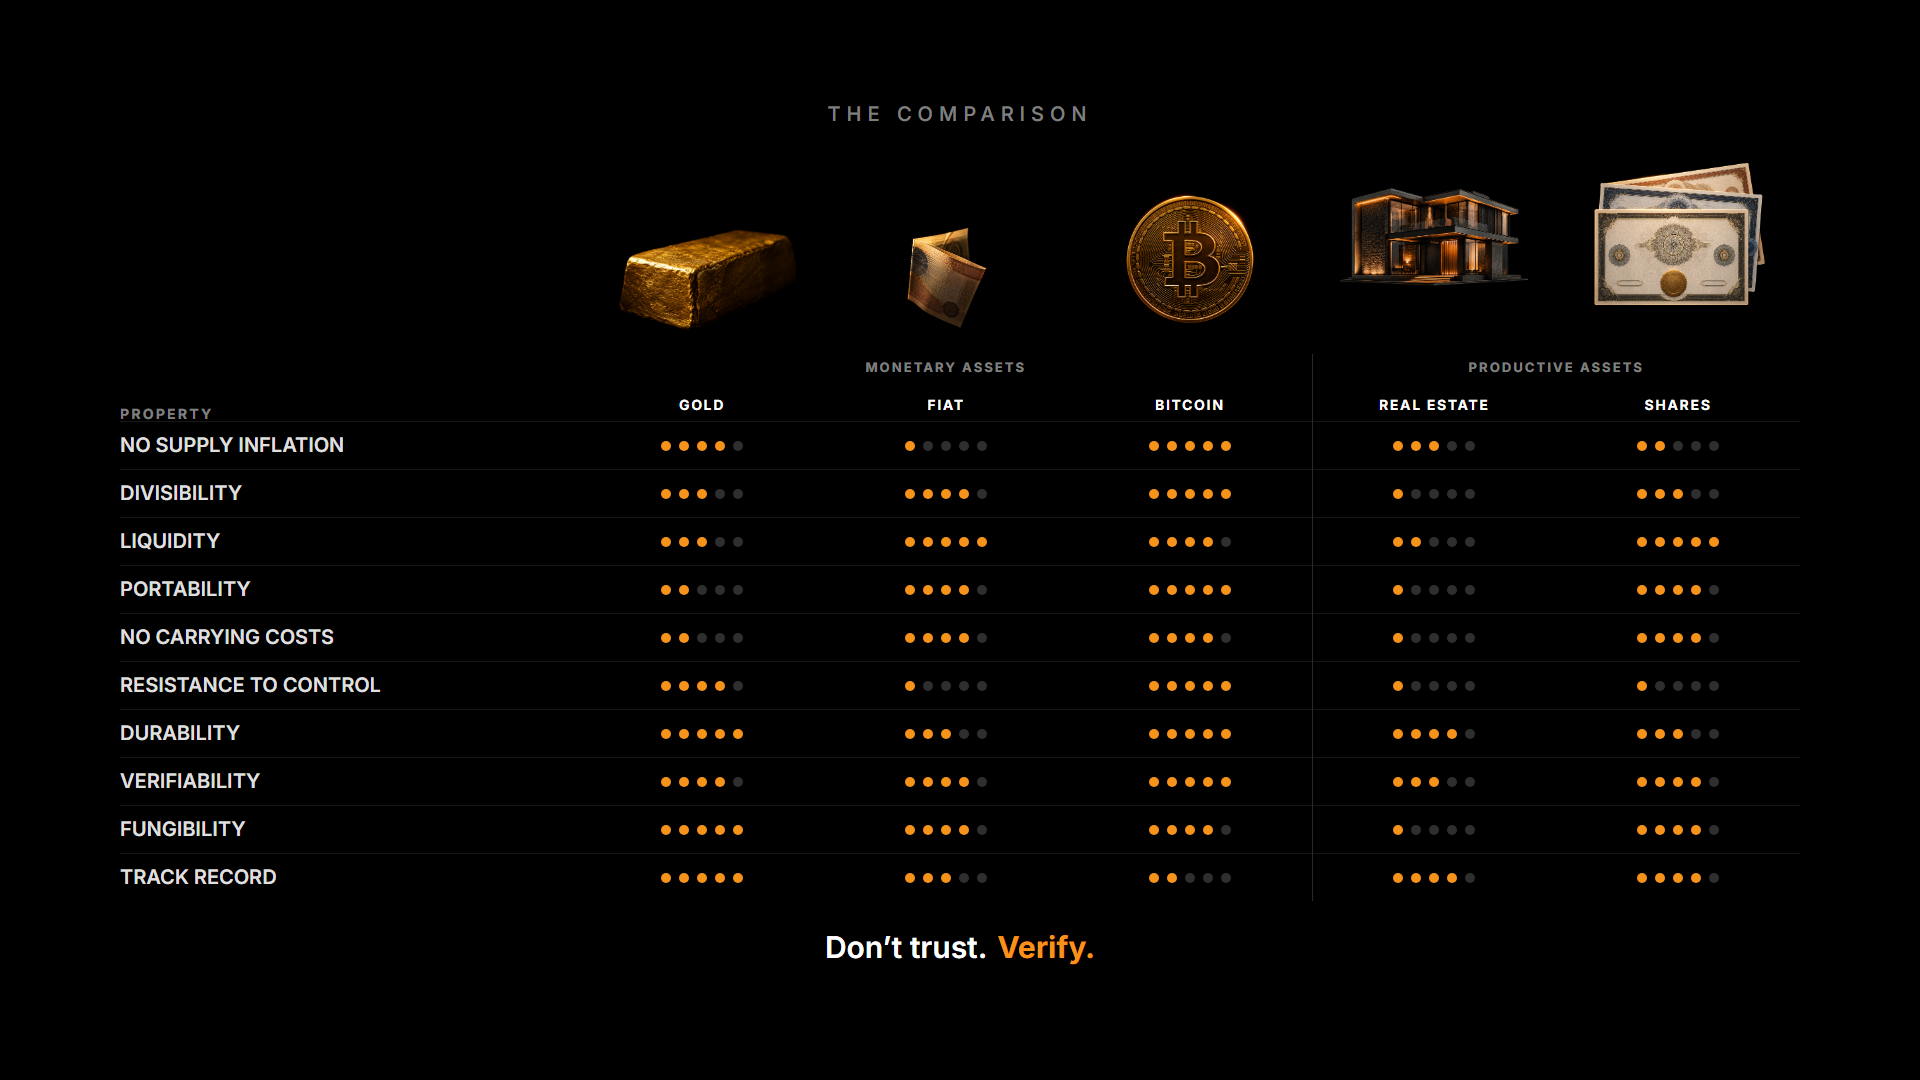
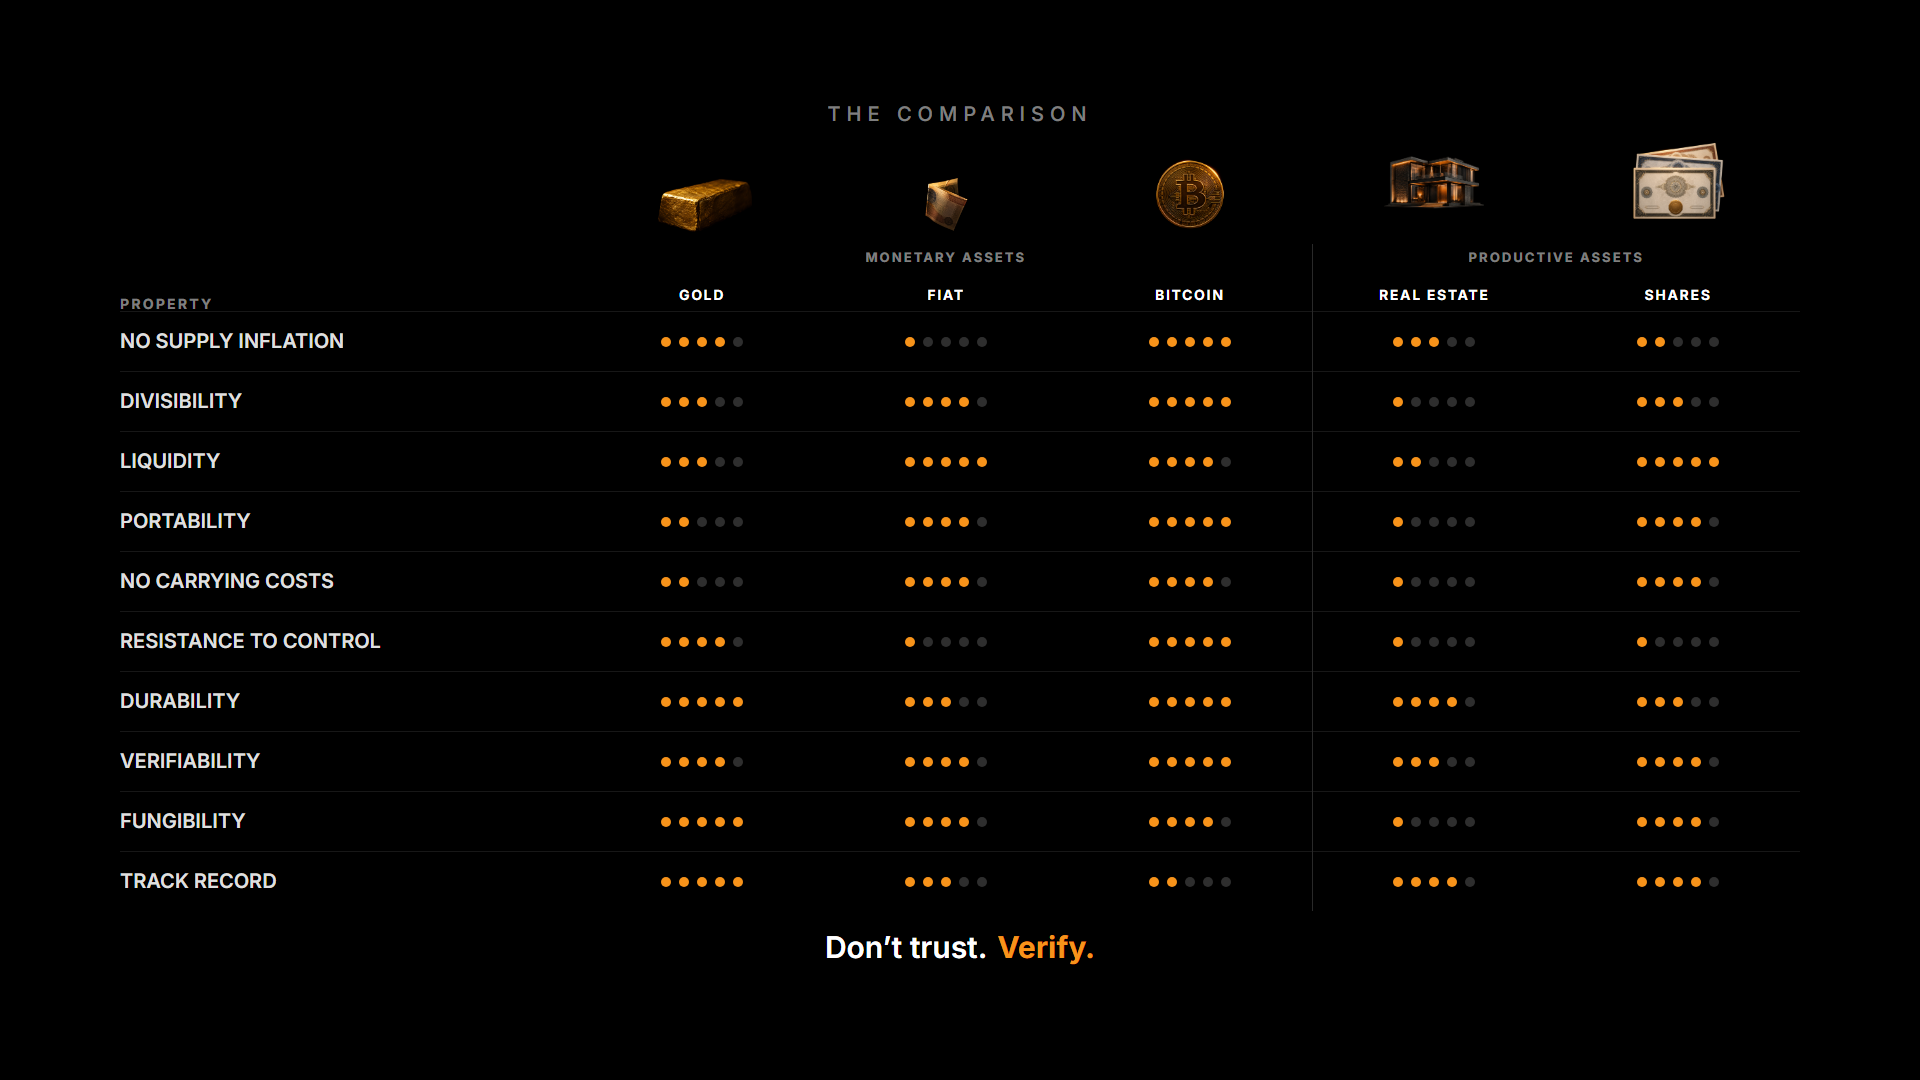
cells(act-4): s23-b5 and s23-b6 re-rendered under the fit ruling — the rows at the legacy 60, the band in its 100 box; the harness amended, the record re-cut at act-5-states, the per-cell checks 27/27
Claude-Session: https://claude.ai/code/session_018ujnmLua1EPGzWvFmZCeAc

diff --git a/review/act-4/states/sheet.html b/review/act-4/states/sheet.html
@@ -73,13 +73,14 @@ Act III's sheet asked: <i>can I follow the argument by eye alone?</i> Then retur
 <li>Scene 22 merges its list beats — all ten properties land in one advance; the two paragraphs merge at zero word changes, one [→] removed; S22 = 3 beats, the act = 42; S22-F2 is ADAPT; the merged cell is the complete two-column list, the five-row cell leaves the record</li>
 <li>The sheet is presenter-approved in full — the remaining flagged cells approved as rendered (the entry seam with the whole fork at rest and no words on the frame; the definition at the legacy build-3 composition; beat 2’s frame held for the social claim; the disc’s re-centering as wiring; the coin photograph as ruled; the unmapped grid as the first sweep’s first movement; the empty table entering with the scores’ gesture); the table-kicker spacing recorded as an accepted legacy fact; the go-ahead given — the 42 cells are the approved set, the visual authority for every landed-state proof of the Batch D implementation</li>
 <li>Acts III–IV final (the Act V kickoff brief, Part A §2, 3 Sep 2026, master §13): the table’s headers become renders — the five candidate glyphs retire and the renders ride as a header band above the table at lineup scale per the rails law, the drawn grammar beneath untouched; S23-F2 is ADAPT; s23-b5 and s23-b6 re-rendered on the ruling’s authority as the updated approved states; the band’s fit flagged in the report</li>
+<li>The fit at Scene 23 (the presenter’s ruling of 4 Sep 2026, master §13 — recorded by the act-5-states session before the source was touched): the ten score rows return to the legacy 60 px pitch and the header band shrinks to a 100 × 100 contain box, a ruled departure from the rails law’s 188 box for this surface; s23-b5 and s23-b6 re-rendered again as the updated approved states and re-proven in the deck (review/act-5/landed-proof-s23-band.json)</li>
 </ol>
 <ul class="flags">
 <li><a href="#s19-b1"><b>s19-b1</b></a> — RULED 3 September 2026 (the Batch D implementation brief §1.1, master §13): beat 1 is the inverted framing alone — no carrier on stage. The change is made at the source — legacy 4-10 keys the stress stage’s carrier to build 2 — and S19-F1 is ADAPT in the ruled map, the one change named. The flag this cell carried (4-10’s build 0, the direct framing under the governing question, has no spoken advance of its own; the sheet stood the settled state) is answered by the same ruling: the movement is wiring, and the implementation plays the legacy’s own sequence — the direct framing under the question, then the inverted replacing it — as this beat’s gesture.</li>
 <li><a href="#s19-b2"><b>s19-b2</b></a> — RULED 3 September 2026 (the Batch D implementation brief §1.1, master §13): the carrier arrives at beat 2, timed to “let’s put a carrier on the bench and try to break it.” The flag this cell carried — the two beats shared one still since R7.4 deleted the corner brackets — is closed by the ruling: the frame is unchanged, and its arrival (the claim’s and the shell’s own reveals) is now the beat’s gesture. The beats are no longer identical stills.</li>
 <li><a href="#s22-b3"><b>s22-b3</b></a> — RULED 3 September 2026 (the Batch D implementation brief §1.2, master §13): Scene 22 merges its list beats — all ten properties land in one advance; the two paragraphs merge at zero word changes, one [→] removed; S22 = 3, the act = 42. This cell is the merged beat’s settled state — legacy 4-14’s complete list, its own last state — and S22-F2 is ADAPT in the ruled map, the one change named: the landing as one gesture, at Scene 22’s build (Session 2). The five-row cell this beat used to be leaves the record, and the flag it carried (the grid giving way to the list with no legacy morph between them) is answered the same way — the composition change is Scene 22’s wiring.</li>
-<li><a href="#s23-b5"><b>s23-b5</b></a> — RULED 3 September 2026 (the Act V kickoff brief, Part A §2, master §13): the table’s headers become renders — the five candidate glyphs retire, the renders ride as a header band above the table at lineup scale per the rails law, the drawn grammar beneath untouched; the group labels and the kicker stay as approved; the fifty-score landing is unchanged. S23-F2 is ADAPT. The change is at the source (legacy 4-16, the table component); this cell mounts the module and carries it. One thing this render adds, flagged in the report: at the rails-law box the band does not fit above the table with the closing line at its held position unless the table gives ground — the heading row shrinks to its label and the ten score rows tighten from 60 to 48, under one attribute on the slide root; the legacy pitch stays on file. The kicker-to-table stack is no longer tight — the band sits between them.</li>
-<li><a href="#s23-b6"><b>s23-b6</b></a> — RULED 3 September 2026 (the Act V kickoff brief, Part A §2, master §13): the table’s headers become renders — this cell re-renders on the ruling’s authority, the closing line at its held position (930) beneath the tightened table; the line itself is untouched (S23-F3 stays PORT). The flag this cell carried — the tight kicker-to-table stack, an accepted legacy fact — is overtaken by the band, which now sits between the kicker and the group labels.</li>
+<li><a href="#s23-b5"><b>s23-b5</b></a> — RULED 3 September 2026 (the Act V kickoff brief, Part A §2, master §13): the table’s headers become renders — the five candidate glyphs retire, the renders ride as a header band above the table at lineup scale per the rails law, the drawn grammar beneath untouched; the group labels and the kicker stay as approved; the fifty-score landing is unchanged. S23-F2 is ADAPT. The change is at the source (legacy 4-16, the table component); this cell mounts the module and carries it. The band’s fit, flagged at that session (at the rails-law box the band did not fit above the table with the closing line at its held position unless the ten score rows tightened to 48), was RULED 4 September 2026 (master §13): the score rows return to the legacy 60 px pitch — the scores keep their proven geometry — and the band shrinks to a 100 × 100 contain box, a ruled departure from the rails law’s 188 box for this one surface; the heading row stays at its label. This cell re-rendered again on that authority and is re-proven in the deck (review/act-5/landed-proof-s23-band.json). The kicker-to-table stack is no longer tight — the band sits between them. One thing to see at the viewing: at the 100 box the fiat note reads small, by the register’s own framing of that render.</li>
+<li><a href="#s23-b6"><b>s23-b6</b></a> — RULED 3 September 2026 (the Act V kickoff brief, Part A §2, master §13): the table’s headers become renders — this cell re-renders on the ruling’s authority, the closing line at its held position (930) beneath the table; the line itself is untouched (S23-F3 stays PORT). RULED AGAIN 4 September 2026 (the fit ruling, master §13): the table stands at its legacy 60 px pitch beneath the band’s 100 box, its last row ending at 911 under the line’s 930; this cell re-rendered a second time on that authority and is re-proven in the deck. The flag this cell carried — the tight kicker-to-table stack, an accepted legacy fact — is overtaken by the band, which now sits between the kicker and the group labels.</li>
 </ul>
 <p class="note"><b>The flags, gathered — closed, approved as rendered 3 September 2026</b> — each in plain English, each on its cell:</p>
 <ul class="flags">
@@ -592,10 +593,10 @@ session is the ruled 3-08 splice (39 → 38 slides), proven in <i>review/act-4/s
       <figcaption>
         <b>s23-b5</b> · S23 b5 · <span class="frame">S23-F2</span>
         <span class="pill pill--approved-ruled">ADAPT · approved-ruled</span>
-        <br>Beat 5 · the table — THE COMPARISON in the quiet kicker register; the five candidates as renders in a band above the table at the rails-law band scale (gold, the fiat note, the coin, the house, and shares, bottom-aligned on one baseline, each over its own column); beneath it the grammar untouched — MONETARY ASSETS · PRODUCTIVE ASSETS, PROPERTY, the five labels, ten rows — and ALL FIFTY SCORES LANDING AT ONCE — the frozen data, blob-proven, walked in the spoken word. No total, no winner badge, no highlight. The closing line is not yet on the frame.
+        <br>Beat 5 · the table — THE COMPARISON in the quiet kicker register; the five candidates as renders in a band above the table in the ruled 100 box (gold, the fiat note, the coin, the house, and shares, bottom-aligned on one baseline, each over its own column); beneath it the grammar untouched at its legacy pitch — MONETARY ASSETS · PRODUCTIVE ASSETS, PROPERTY, the five labels, ten rows — and ALL FIFTY SCORES LANDING AT ONCE — the frozen data, blob-proven, walked in the spoken word. No total, no winner badge, no highlight. The closing line is not yet on the frame.
         
-        <br><span class="ruleline"><b>RULED 3 September 2026 (the Act V kickoff brief, Part A §2, master §13): the table’s headers become renders — the five candidate glyphs retire, the renders ride as a header band above the table at lineup scale per the rails law, the drawn grammar beneath untouched; the group labels and the kicker stay as approved; the fifty-score landing is unchanged. S23-F2 is ADAPT. The change is at the source (legacy 4-16, the table component); this cell mounts the module and carries it. One thing this render adds, flagged in the report: at the rails-law box the band does not fit above the table with the closing line at its held position unless the table gives ground — the heading row shrinks to its label and the ten score rows tighten from 60 to 48, under one attribute on the slide root; the legacy pitch stays on file. The kicker-to-table stack is no longer tight — the band sits between them.</b></span>
-        <br><span class="src">source: 4-16-the-comparison, build 1 — all fifty scores on one advance (R7.4 §D.3) + AssetComparisonTable + DotRating + COMPARISON_ROWS (frozen); the header band at the source since the Acts III–IV final ruling 2 (3 Sep 2026)</span>
+        <br><span class="ruleline"><b>RULED 3 September 2026 (the Act V kickoff brief, Part A §2, master §13): the table’s headers become renders — the five candidate glyphs retire, the renders ride as a header band above the table at lineup scale per the rails law, the drawn grammar beneath untouched; the group labels and the kicker stay as approved; the fifty-score landing is unchanged. S23-F2 is ADAPT. The change is at the source (legacy 4-16, the table component); this cell mounts the module and carries it. The band’s fit, flagged at that session (at the rails-law box the band did not fit above the table with the closing line at its held position unless the ten score rows tightened to 48), was RULED 4 September 2026 (master §13): the score rows return to the legacy 60 px pitch — the scores keep their proven geometry — and the band shrinks to a 100 × 100 contain box, a ruled departure from the rails law’s 188 box for this one surface; the heading row stays at its label. This cell re-rendered again on that authority and is re-proven in the deck (review/act-5/landed-proof-s23-band.json). The kicker-to-table stack is no longer tight — the band sits between them. One thing to see at the viewing: at the 100 box the fiat note reads small, by the register’s own framing of that render.</b></span>
+        <br><span class="src">source: 4-16-the-comparison, build 1 — all fifty scores on one advance (R7.4 §D.3) + AssetComparisonTable + DotRating + COMPARISON_ROWS (frozen); the header band at the source since the Acts III–IV final ruling 2 (3 Sep 2026), at its ruled 100 box and the legacy row pitch since the fit ruling (4 Sep 2026)</span>
         <br><span class="src">probes 6/6</span> · <a href="./s23-b5.png" target="_blank">full size</a>
       </figcaption>
     </figure>
@@ -606,8 +607,8 @@ session is the ruled 3-08 splice (39 → 38 slides), proven in <i>review/act-4/s
         <span class="pill pill--approved-ruled">PORT · approved-ruled</span>
         <br>Beat 6 · the closing line: Don’t trust. Verify. — two spans, on stage exactly once in the film, beneath the fifty scores, the render band standing above the table. The scores are dated in the spoken word: my judgments, as of 2026; every one of them an invitation. The act ends on the turn to where monetary demand goes.
         
-        <br><span class="ruleline"><b>RULED 3 September 2026 (the Act V kickoff brief, Part A §2, master §13): the table’s headers become renders — this cell re-renders on the ruling’s authority, the closing line at its held position (930) beneath the tightened table; the line itself is untouched (S23-F3 stays PORT). The flag this cell carried — the tight kicker-to-table stack, an accepted legacy fact — is overtaken by the band, which now sits between the kicker and the group labels.</b></span>
-        <br><span class="src">source: 4-16-the-comparison, build 2 — the line; the header band at the source since the Acts III–IV final ruling 2 (3 Sep 2026)</span>
+        <br><span class="ruleline"><b>RULED 3 September 2026 (the Act V kickoff brief, Part A §2, master §13): the table’s headers become renders — this cell re-renders on the ruling’s authority, the closing line at its held position (930) beneath the table; the line itself is untouched (S23-F3 stays PORT). RULED AGAIN 4 September 2026 (the fit ruling, master §13): the table stands at its legacy 60 px pitch beneath the band’s 100 box, its last row ending at 911 under the line’s 930; this cell re-rendered a second time on that authority and is re-proven in the deck. The flag this cell carried — the tight kicker-to-table stack, an accepted legacy fact — is overtaken by the band, which now sits between the kicker and the group labels.</b></span>
+        <br><span class="src">source: 4-16-the-comparison, build 2 — the line; the header band at the source since the Acts III–IV final ruling 2 (3 Sep 2026), at its ruled 100 box and the legacy row pitch since the fit ruling (4 Sep 2026)</span>
         <br><span class="src">probes 4/4</span> · <a href="./s23-b6.png" target="_blank">full size</a>
       </figcaption>
     </figure></div>
